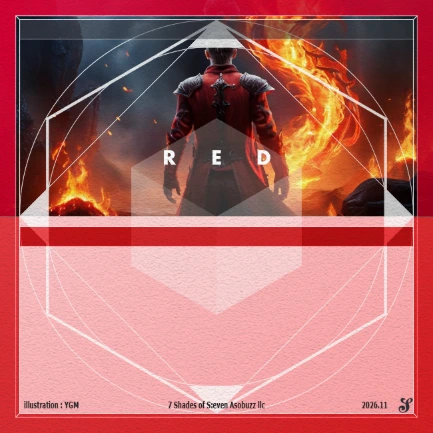
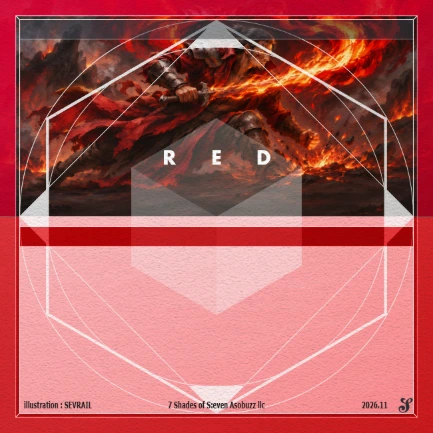
志炎者7枚をアプリに繋いだ：名義SEVRAIL・正方形イラスト・山札7枚（続き779）
ユーザー裁定4件への対応。

- 「この決まりはリメイクにも使ってた？」→ 使っていない。25字・行数の目安は
  CLAUDE.md の記録だけで、道具にも検査にも文のデータにも無い。リメイクの効果文には
  25字を超える行が48本ある（最長97字）。
- 名義を SEVRAIL にし、もらった正方形イラスト（1254x1254）で7枚を焼き直した。
  素材は _正方形版/<カードのid>.png（0th拡張と同じ仕掛け。元ファイル名が
  Shift_JIS 崩れなので id で当てる）。
- 山札に入れられるのは7枚（ONLYの1枚ではない）。
- 金色に光らせるのは貰うときだけ・ゲーム中は光らせない、をデータに記録。
  （報酬を渡す画面はまだ無い）

繋いだ所: card-text.js／cards-data.js の ALL_CARDS と MY_STACK_SETS／
card-pack-ui.js の getCollectionPool。
繋がなかった所: getPackPool（限定報酬なのでパックに入らない・サーバーの写し）と
my-page.js の称号の数え（分母だけ増えて到達不能になる）。

🔴 「パックに入るか」と「持ち物として数えるか」は別の問いだった。コレクションの枚数を
getPackPool で判定していたので、そのまま並べると持っていないのに 7/7 と出た。
判定を 持ち物として数える札か() に作り直した。

⚠ カードの下半分が平らな色に見えるのは絵がそう描かれているから（壊れていない）。
同じ赤枠に龍の絵を焼くと下85%まで絵が出ることを対照で確かめた。

check-cards.mjs に志炎者の節を足した（名義・山札の枚数・パックに混ざっていないか・
繋ぎ先が本当に使われているか）。わざと5通り崩して5通りとも名指しで落ちることを確認。

実測 scratchpad/_p779.mjs 28項目・NG 0・例外0・404 0。
npm run check 20本とも合格、npm test 216/216 PASS。
SQL・Edge Function の変更は無い＝再デプロイ不要。

diff --git a/src/cards-data-cf.js b/src/cards-data-cf.js
@@ -8,14 +8,27 @@
 // ⚠ 扱いは**拡張カード**（新しいエディションではない）。**パックではなく限定報酬**で配る。
 // 🔴 【志炎】は**まだ未実装**。「相手が、このカードと同色のカードの手札効果を使用した直後に限り、
 //    宣言できる」＝払うコストではなく**割り込みの窓**。アプリにその仕組みがまだ無い。
-// ⚠ `limited: true` は「限定報酬でしか手に入らない」の印。
+// ⚠ `limited: true` は「**手に入り方**が限定報酬だけ」の印。
 //    ONLY カードの `only` とは別物（あちらは印刷カードに ONLY と刷ってある札）。
-export const CF_CARDS = [
-  { id: "cf-yellow-scintilla", name: "黄を待つ志炎者　-スキンティラ-", color: "yellow", count: 1, limited: true, note: "🔴 2026-11-21: **0thリメイクの限定カード**。旧0thの「黄の志炎を待つ者」と**題名が同じで紛らわしい**ので、ユーザー判断で「黄を待つ志炎者　-スキンティラ-」に改名した。**旧0thの札とは別物。** 🔴 扱いは**拡張カード**（新しいエディションではない）。**パックではなく限定報酬**で配る（ユーザー判断）。 ⓘ 名前の由来: 火花（ラテン語）。7枚で「火の一生」を表す（① 生まれる）。 ⓘ 絵: 飛び跳ねる少年と黄金の炎の精霊（素材は J:/自作カードゲーム/7 seven/画像集/しえんしゃ　画像）。 🔴 【志炎】は**払うコストではなく割り込みの窓**。公式サイトの基本用語集:「相手が、このカードと同色のカードの手札効果を使用した直後に限り、宣言できる」。**まだ未実装。**" },
-  { id: "cf-pink-flamma", name: "桃を待つ志炎者　-フランマ-", color: "pink", count: 1, limited: true, note: "🔴 2026-11-21: **0thリメイクの限定カード**。旧0thの「桃の志炎を待つ者」と**題名が同じで紛らわしい**ので、ユーザー判断で「桃を待つ志炎者　-フランマ-」に改名した。**旧0thの札とは別物。** 🔴 扱いは**拡張カード**（新しいエディションではない）。**パックではなく限定報酬**で配る（ユーザー判断）。 ⓘ 名前の由来: 炎（ラテン語）。7枚で「火の一生」を表す（② 育つ）。 ⓘ 絵: ピンクの炎を編む少女（素材は J:/自作カードゲーム/7 seven/画像集/しえんしゃ　画像）。 🔴 【志炎】は**払うコストではなく割り込みの窓**。公式サイトの基本用語集:「相手が、このカードと同色のカードの手札効果を使用した直後に限り、宣言できる」。**まだ未実装。**" },
-  { id: "cf-red-ignis", name: "赤を待つ志炎者　-イグニス-", color: "red", count: 1, limited: true, note: "🔴 2026-11-21: **0thリメイクの限定カード**。旧0thの「赤の志炎を待つ者」と**題名が同じで紛らわしい**ので、ユーザー判断で「赤を待つ志炎者　-イグニス-」に改名した。**旧0thの札とは別物。** 🔴 扱いは**拡張カード**（新しいエディションではない）。**パックではなく限定報酬**で配る（ユーザー判断）。 ⓘ 名前の由来: 火（ラテン語）。7枚で「火の一生」を表す（③ 燃え盛る）。 ⓘ 絵: 炎剣を振るう赤い戦士（素材は J:/自作カードゲーム/7 seven/画像集/しえんしゃ　画像）。 🔴 【志炎】は**払うコストではなく割り込みの窓**。公式サイトの基本用語集:「相手が、このカードと同色のカードの手札効果を使用した直後に限り、宣言できる」。**まだ未実装。**" },
-  { id: "cf-orange-brand", name: "橙を待つ志炎者　-ブランド-", color: "orange", count: 1, limited: true, note: "🔴 2026-11-21: **0thリメイクの限定カード**。旧0thの「橙の志炎を待つ者」と**題名が同じで紛らわしい**ので、ユーザー判断で「橙を待つ志炎者　-ブランド-」に改名した。**旧0thの札とは別物。** 🔴 扱いは**拡張カード**（新しいエディションではない）。**パックではなく限定報酬**で配る（ユーザー判断）。 ⓘ 名前の由来: 燃え木・焼き印（ラテン語）。7枚で「火の一生」を表す（④ 運ばれる）。 ⓘ 絵: 橙の獣人と光る火の実（素材は J:/自作カードゲーム/7 seven/画像集/しえんしゃ　画像）。 🔴 【志炎】は**払うコストではなく割り込みの窓**。公式サイトの基本用語集:「相手が、このカードと同色のカードの手札効果を使用した直後に限り、宣言できる」。**まだ未実装。**" },
-  { id: "cf-blue-candela", name: "青を待つ志炎者　-カンデラ-", color: "blue", count: 1, limited: true, note: "🔴 2026-11-21: **0thリメイクの限定カード**。旧0thの「青の志炎を待つ者」と**題名が同じで紛らわしい**ので、ユーザー判断で「青を待つ志炎者　-カンデラ-」に改名した。**旧0thの札とは別物。** 🔴 扱いは**拡張カード**（新しいエディションではない）。**パックではなく限定報酬**で配る（ユーザー判断）。 ⓘ 名前の由来: 燭（ともしび）（ラテン語）。7枚で「火の一生」を表す（⑤ 灯される）。 ⓘ 絵: 青炎を掲げる老学者（素材は J:/自作カードゲーム/7 seven/画像集/しえんしゃ　画像）。 🔴 【志炎】は**払うコストではなく割り込みの窓**。公式サイトの基本用語集:「相手が、このカードと同色のカードの手札効果を使用した直後に限り、宣言できる」。**まだ未実装。**" },
-  { id: "cf-green-ember", name: "緑を待つ志炎者　-エンバー-", color: "green", count: 1, limited: true, note: "🔴 2026-11-21: **0thリメイクの限定カード**。旧0thの「緑の志炎を待つ者」と**題名が同じで紛らわしい**ので、ユーザー判断で「緑を待つ志炎者　-エンバー-」に改名した。**旧0thの札とは別物。** 🔴 扱いは**拡張カード**（新しいエディションではない）。**パックではなく限定報酬**で配る（ユーザー判断）。 ⓘ 名前の由来: 残り火（ラテン語）。7枚で「火の一生」を表す（⑥ 燻る）。 ⓘ 絵: 緑の蛮族、裂けた大地（素材は J:/自作カードゲーム/7 seven/画像集/しえんしゃ　画像）。 🔴 【志炎】は**払うコストではなく割り込みの窓**。公式サイトの基本用語集:「相手が、このカードと同色のカードの手札効果を使用した直後に限り、宣言できる」。**まだ未実装。**" },
-  { id: "cf-purple-favilla", name: "紫を待つ志炎者　-ファウィラ-", color: "purple", count: 1, limited: true, note: "🔴 2026-11-21: **0thリメイクの限定カード**。旧0thの「紫の志炎を待つ者」と**題名が同じで紛らわしい**ので、ユーザー判断で「紫を待つ志炎者　-ファウィラ-」に改名した。**旧0thの札とは別物。** 🔴 扱いは**拡張カード**（新しいエディションではない）。**パックではなく限定報酬**で配る（ユーザー判断）。 ⓘ 名前の由来: 燃えさし・灰（ラテン語）。7枚で「火の一生」を表す（⑦ 還る）。 ⓘ 絵: 紫の老女と燃える灯火（素材は J:/自作カードゲーム/7 seven/画像集/しえんしゃ　画像）。 🔴 【志炎】は**払うコストではなく割り込みの窓**。公式サイトの基本用語集:「相手が、このカードと同色のカードの手札効果を使用した直後に限り、宣言できる」。**まだ未実装。**" },
+// 🔴 山札に入れられるのは **7枚**＝ふつうの拡張カードと同じ
+//    （2026-11-21・ユーザー判断「これはONLYカードではないので通常通り７枚です」）。
+//    ⚠ ONLY カードの「1種類1枚まで」と**取り違えないこと**。
+// 🔴 金色に光らせるのは**貰うときだけ**。ゲーム中は光らせない（同日のユーザー判断）。
+//
+// 🔴 **繋ぐ所は「山札」だけではない**（続き758 の実害: 山札だけ繋いで `ALL_CARDS` に足し忘れ、
+//    名前が id のまま出た）。いま繋いである所:
+//      ・src/card-text.js        … 名前と効果文
+//      ・src/cards-data.js       … ALL_CARDS（id を引く表）と MY_STACK_SETS（マイ山札の候補）
+//      ・src/card-pack-ui.js     … コレクションに並べる顔ぶれ（getCollectionPool・持ち物として数える札）
+//    🔴 **足していない所と、その理由**:
+//      ・getPackPool()           … パックには入らない（限定報酬）。あれはサーバーの写しで検査が照合する
+//      ・my-page.js の称号の数え … 足すと「全部集めた」系の称号が**到達不能になる**（分母だけ増える）
+export const CF_NORMAL_CARDS = [
+  { id: "cf-yellow-scintilla", name: "黄を待つ志炎者　-スキンティラ-", color: "yellow", count: 7, limited: true, note: "🔴 2026-11-21: **0thリメイクの限定カード**。旧0thの「黄の志炎を待つ者」と**題名が同じで紛らわしい**ので、ユーザー判断で「黄を待つ志炎者　-スキンティラ-」に改名した。**旧0thの札とは別物。** 🔴 扱いは**拡張カード**（新しいエディションではない）。**パックではなく限定報酬**で配る（ユーザー判断）。 ⓘ 名前の由来: 火花（ラテン語）。7枚で「火の一生」を表す（① 生まれる）。 ⓘ 絵: 飛び跳ねる少年と黄金の炎の精霊（素材は J:/自作カードゲーム/7 seven/画像集/しえんしゃ　画像）。 🔴 【志炎】は**払うコストではなく割り込みの窓**。公式サイトの基本用語集:「相手が、このカードと同色のカードの手札効果を使用した直後に限り、宣言できる」。**まだ未実装。**" },
+  { id: "cf-pink-flamma", name: "桃を待つ志炎者　-フランマ-", color: "pink", count: 7, limited: true, note: "🔴 2026-11-21: **0thリメイクの限定カード**。旧0thの「桃の志炎を待つ者」と**題名が同じで紛らわしい**ので、ユーザー判断で「桃を待つ志炎者　-フランマ-」に改名した。**旧0thの札とは別物。** 🔴 扱いは**拡張カード**（新しいエディションではない）。**パックではなく限定報酬**で配る（ユーザー判断）。 ⓘ 名前の由来: 炎（ラテン語）。7枚で「火の一生」を表す（② 育つ）。 ⓘ 絵: ピンクの炎を編む少女（素材は J:/自作カードゲーム/7 seven/画像集/しえんしゃ　画像）。 🔴 【志炎】は**払うコストではなく割り込みの窓**。公式サイトの基本用語集:「相手が、このカードと同色のカードの手札効果を使用した直後に限り、宣言できる」。**まだ未実装。**" },
+  { id: "cf-red-ignis", name: "赤を待つ志炎者　-イグニス-", color: "red", count: 7, limited: true, note: "🔴 2026-11-21: **0thリメイクの限定カード**。旧0thの「赤の志炎を待つ者」と**題名が同じで紛らわしい**ので、ユーザー判断で「赤を待つ志炎者　-イグニス-」に改名した。**旧0thの札とは別物。** 🔴 扱いは**拡張カード**（新しいエディションではない）。**パックではなく限定報酬**で配る（ユーザー判断）。 ⓘ 名前の由来: 火（ラテン語）。7枚で「火の一生」を表す（③ 燃え盛る）。 ⓘ 絵: 炎剣を振るう赤い戦士（素材は J:/自作カードゲーム/7 seven/画像集/しえんしゃ　画像）。 🔴 【志炎】は**払うコストではなく割り込みの窓**。公式サイトの基本用語集:「相手が、このカードと同色のカードの手札効果を使用した直後に限り、宣言できる」。**まだ未実装。**" },
+  { id: "cf-orange-brand", name: "橙を待つ志炎者　-ブランド-", color: "orange", count: 7, limited: true, note: "🔴 2026-11-21: **0thリメイクの限定カード**。旧0thの「橙の志炎を待つ者」と**題名が同じで紛らわしい**ので、ユーザー判断で「橙を待つ志炎者　-ブランド-」に改名した。**旧0thの札とは別物。** 🔴 扱いは**拡張カード**（新しいエディションではない）。**パックではなく限定報酬**で配る（ユーザー判断）。 ⓘ 名前の由来: 燃え木・焼き印（ラテン語）。7枚で「火の一生」を表す（④ 運ばれる）。 ⓘ 絵: 橙の獣人と光る火の実（素材は J:/自作カードゲーム/7 seven/画像集/しえんしゃ　画像）。 🔴 【志炎】は**払うコストではなく割り込みの窓**。公式サイトの基本用語集:「相手が、このカードと同色のカードの手札効果を使用した直後に限り、宣言できる」。**まだ未実装。**" },
+  { id: "cf-blue-candela", name: "青を待つ志炎者　-カンデラ-", color: "blue", count: 7, limited: true, note: "🔴 2026-11-21: **0thリメイクの限定カード**。旧0thの「青の志炎を待つ者」と**題名が同じで紛らわしい**ので、ユーザー判断で「青を待つ志炎者　-カンデラ-」に改名した。**旧0thの札とは別物。** 🔴 扱いは**拡張カード**（新しいエディションではない）。**パックではなく限定報酬**で配る（ユーザー判断）。 ⓘ 名前の由来: 燭（ともしび）（ラテン語）。7枚で「火の一生」を表す（⑤ 灯される）。 ⓘ 絵: 青炎を掲げる老学者（素材は J:/自作カードゲーム/7 seven/画像集/しえんしゃ　画像）。 🔴 【志炎】は**払うコストではなく割り込みの窓**。公式サイトの基本用語集:「相手が、このカードと同色のカードの手札効果を使用した直後に限り、宣言できる」。**まだ未実装。**" },
+  { id: "cf-green-ember", name: "緑を待つ志炎者　-エンバー-", color: "green", count: 7, limited: true, note: "🔴 2026-11-21: **0thリメイクの限定カード**。旧0thの「緑の志炎を待つ者」と**題名が同じで紛らわしい**ので、ユーザー判断で「緑を待つ志炎者　-エンバー-」に改名した。**旧0thの札とは別物。** 🔴 扱いは**拡張カード**（新しいエディションではない）。**パックではなく限定報酬**で配る（ユーザー判断）。 ⓘ 名前の由来: 残り火（ラテン語）。7枚で「火の一生」を表す（⑥ 燻る）。 ⓘ 絵: 緑の蛮族、裂けた大地（素材は J:/自作カードゲーム/7 seven/画像集/しえんしゃ　画像）。 🔴 【志炎】は**払うコストではなく割り込みの窓**。公式サイトの基本用語集:「相手が、このカードと同色のカードの手札効果を使用した直後に限り、宣言できる」。**まだ未実装。**" },
+  { id: "cf-purple-favilla", name: "紫を待つ志炎者　-ファウィラ-", color: "purple", count: 7, limited: true, note: "🔴 2026-11-21: **0thリメイクの限定カード**。旧0thの「紫の志炎を待つ者」と**題名が同じで紛らわしい**ので、ユーザー判断で「紫を待つ志炎者　-ファウィラ-」に改名した。**旧0thの札とは別物。** 🔴 扱いは**拡張カード**（新しいエディションではない）。**パックではなく限定報酬**で配る（ユーザー判断）。 ⓘ 名前の由来: 燃えさし・灰（ラテン語）。7枚で「火の一生」を表す（⑦ 還る）。 ⓘ 絵: 紫の老女と燃える灯火（素材は J:/自作カードゲーム/7 seven/画像集/しえんしゃ　画像）。 🔴 【志炎】は**払うコストではなく割り込みの窓**。公式サイトの基本用語集:「相手が、このカードと同色のカードの手札効果を使用した直後に限り、宣言できる」。**まだ未実装。**" },
 ];

diff --git a/src/changelog.js b/src/changelog.js
@@ -153,6 +153,14 @@ export const CHANGELOG = [
       "🔴 **枠は「◯２」を使う**（追色の印が付かない方）。続き758 で焼き出しを1画素ずつ比べた結果「**◯１は右上に7角形の印（追色）が付く**」と分かっているため。志炎者に追色は無い。⚠ 赤・黄・緑・青・桃は１と２の差が 0〜4画素（実質同じ）だが、**そろえて２**にしてある。`cf-cards.mjs` の自己点検が「枠が２で終わるか」を毎回見る。",
       "⚠ **文とデータを書き出す道具を足した**（`tools/gen-cf-text.mjs` → `src/card-text-cf.ja.js` / `.en.js` / `src/cards-data-cf.js`）。🔴 **道具の表（cf-cards.mjs）と文の表（json）が食い違っていたら止まる**（名前・色・文の有無を突き合わせる）——片方だけ直して気づかないのがいちばん怖い。",
       "⚠ **まだアプリには出ない**（生成したファイルをどこからも import していないので、画面は1ミリも変わらない）。繋ぐ前に決めることが3つある: ①クレジットの名義（いま仮で YGM。リメイクの札は SEVRAIL 名義）②山札に入れられる枚数（ONLY と同じ1枚までか）③金の光を付けるか（ONLY は #596 で金色に光る）。",
+      "🔴 **志炎者7枚（0thリメイクの限定カード）をアプリに繋いだ。** ユーザー判断3件が決まったため: ①クレジットの名義は **SEVRAIL**（リメイクの札と同じ）②山札に入れられるのは **7枚**（ONLY の「1種類1枚まで」ではない）③金色に光らせるのは**貰うときだけ**でゲーム中は光らせない。",
+      "🔴 **イラストを、もらった正方形版（1254x1254）に差し替えて焼き直した。** 素材フォルダ直下の `_正方形版` に**カードの id**でファイルを置く仕掛け（0th拡張と同じ。あちらはフォルダ名だが、志炎者の元ファイル名は Shift_JIS が壊れていて当てにならないので id にした）。⚠ **リポジトリには入らない**ので、別の端末で `make-cf-art.mjs` を回すと横長の控えに戻る（その時は「横長の控えから焼きました」と出る）。",
+      "⚠ **繋いだ所**: `card-text.js`（名前と効果文）／`cards-data.js` の `ALL_CARDS`（id を引く表）と `MY_STACK_SETS`（マイ山札の候補）／`card-pack-ui.js` の `getCollectionPool`（コレクションに並べる）。🔴 **足していない所**: `getPackPool()`（パックには入らない＝限定報酬。あれはサーバーの写しで検査が照合する）と `my-page.js` の称号の数え（足すと分母だけ増えて「全部集めた」系の称号が**到達不能になる**）。",
+      "🔴 **「パックに入るか」と「持ち物として数えるか」は別の問いだった。** コレクションの枚数は `getPackPool()` に居るかで決めていたので、志炎者をそのまま並べると**持っていないのに 7/7 と出る**（リメイクの33種と同じ「最初から全員が持っている札」に落ちるため）。判定を `持ち物として数える札か()` に作り直した。",
+      "⚠ **カードの下半分が平らな色に見えるのは、絵がそう描かれているから**（壊れていない）。同じ赤枠に龍の絵を焼くと下85%まで絵が出ることを実測で確かめた。志炎者の元絵は「上に人物・下は平らな床」という構図で、**その床の上にアプリが名前と効果文を描く**。",
+      "⚠ **検査を1本ぶん厚くした**（`check-cards.mjs` に志炎者の節）。名義が SEVRAIL か・山札が7枚か・パックに混ざっていないか・繋ぎ先4か所が**本当に使われているか**を毎回見る。🔴 わざと5通り崩して5通りとも名指しで落ちることを確かめた——最初の書き方は**import 行に名前が残っているだけで合格**していて、A/B が3件とも素通りした（**名前が在るかではなく、使われているか**を見る形へ直した）。",
+      "⚠ **効果（【志炎】）はまだ未実装**。カードは出るが自動では処理されない（自己申告で遊べる）。「相手が同色の手札効果を使った直後に限り宣言できる」＝払うコストではなく**割り込みの窓**で、アプリにその仕組みがまだ無い。",
+      "⚠ **配る仕組み（限定報酬）もまだ無い**ので、いまは誰も持っていない。マイ山札には1枚も出ず、コレクションには **0/7** で並ぶ。",
     ],
   },
   {

diff --git a/src/card-pack-ui.js b/src/card-pack-ui.js
@@ -22,6 +22,7 @@ import { EX0_NORMAL_CARDS } from "./cards-data-ex0.js";
 import { NORMAL_CARDS } from "./cards-data.js";
 import { sortCardDefsByColor } from "./card-sort.js";
 import { FIRST_ED_NORMAL_CARDS } from "./cards-data-1st.js";
+import { CF_NORMAL_CARDS } from "./cards-data-cf.js"; // 志炎者7枚（限定報酬・パックには入らない）
 import { getCardImagePath, getCardBackImagePath, hasNoPrintedFace, getCardDefinition } from "./cards-data.js";
 import { showCardFace, paintCardFace } from "./card-face-display.js";
 // 【続き737】カードにホバー（スマホは長押し）で拡大（ユーザー要望・総点検）。
@@ -67,13 +68,18 @@ export function getPackPool() {
 //     ②**色の順に並べ直す**（赤→橙→黄→緑→青→桃→紫→なないろ→白→黒）。
 //   ⚠ パックの**中身**（getPackPool）は1枚も変えていない——あれはサーバーの写しなので、
 //     ここで顔ぶれを変えると検査が落ちる。**出す時だけ**別に組む。
+//   🔴【続き779】**志炎者7枚（限定報酬）も並べる。** パックからは出ないが、
+//     「持ち物として数える札」なので、コレクションには 0/7 で出るのが正しい。
 export function getCollectionPool() {
-  return sortCardDefsByColor([...NORMAL_CARDS, ...EX0_NORMAL_CARDS, ...FIRST_ED_NORMAL_CARDS]);
+  return sortCardDefsByColor([...NORMAL_CARDS, ...EX0_NORMAL_CARDS, ...FIRST_ED_NORMAL_CARDS, ...CF_NORMAL_CARDS]);
 }
 
-// その札が「パックで集める側」か（＝リメイクの33種ではないか）。
-function 拡張の札か(id) {
-  return getPackPool().some((d) => d.id === id);
+// その札の所持枚数を**数える側**か（＝リメイクの33種のように最初から全員が持っている札ではないか）。
+// 🔴【続き779】ここは `getPackPool()` では**ない**。志炎者7枚はパックから出ないが、
+//   持ち物として数える札なので、パックの顔ぶれだけで判ると**持っていないのに 7/7 と出る**
+//   （下の 377 行目で `COPY_MAX` に落ちるため）。**パックに入るか**と**持ち物か**は別の問い。
+function 持ち物として数える札か(id) {
+  return getPackPool().some((d) => d.id === id) || CF_NORMAL_CARDS.some((d) => d.id === id);
 }
 function capOf(def) {
   return def?.only ? 1 : COPY_MAX;
@@ -374,7 +380,7 @@ function ウィークリーの区画() {
 // その札を何枚持っているか。**リメイクの33種は最初から全員が上限まで持っている**
 // （card-packs.js の copiesOf と同じ決まり。ここで別の数え方をするとズレる）。
 function 枚数(c, def) {
-  if (!拡張の札か(def.id)) return COPY_MAX;
+  if (!持ち物として数える札か(def.id)) return COPY_MAX;
   return Math.max(0, Math.floor(Number(c.cards[def.id]) || 0));
 }
 

diff --git a/src/card-text.js b/src/card-text.js
@@ -17,12 +17,14 @@ import { CARD_TEXT_1ST_JA } from "./card-text-1st.ja.js";
 import { CARD_TEXT_1ST_EN } from "./card-text-1st.en.js";
 import { CARD_TEXT_OLD0TH_JA } from "./card-text-0th.ja.js";
 import { CARD_TEXT_OLD0TH_EN } from "./card-text-0th.en.js";
+import { CARD_TEXT_CF_JA } from "./card-text-cf.ja.js"; // 0thリメイクの限定カード（志炎者7枚・続き779）
+import { CARD_TEXT_CF_EN } from "./card-text-cf.en.js";
 
 // 🔴 0th拡張・1st EDITION・旧0th の文は**別ファイル**で持ち、ここで混ぜる。
 //   card-text.ja.js は tools/gen-card-text.mjs が「カード効果　テキスト.txt」から
 //   **丸ごと上書きして作る**ので、あちらに書き足すと次の生成で黙って消えるため。
-const JA = { ...CARD_TEXT_JA, ...CARD_TEXT_EX0_JA, ...CARD_TEXT_1ST_JA, ...CARD_TEXT_OLD0TH_JA };
-const EN = { ...CARD_TEXT_EN, ...CARD_TEXT_EX0_EN, ...CARD_TEXT_1ST_EN, ...CARD_TEXT_OLD0TH_EN };
+const JA = { ...CARD_TEXT_JA, ...CARD_TEXT_EX0_JA, ...CARD_TEXT_1ST_JA, ...CARD_TEXT_OLD0TH_JA, ...CARD_TEXT_CF_JA };
+const EN = { ...CARD_TEXT_EN, ...CARD_TEXT_EX0_EN, ...CARD_TEXT_1ST_EN, ...CARD_TEXT_OLD0TH_EN, ...CARD_TEXT_CF_EN };
 const LANGS = {
   ja: JA,
   en: EN,

diff --git a/src/app-version.js b/src/app-version.js
@@ -1,3 +1,3 @@
 // 自動生成（.git/hooks/pre-commit）。デプロイのたびに更新される「今実行しているコード」の
 // バージョン。version.json と必ず同じ値になる。update-checker.js が使う基準値。
-export const APP_VERSION = "20261121-063841";
+export const APP_VERSION = "20261121-075014";

diff --git a/CLAUDE.md b/CLAUDE.md
@@ -2206,3 +2206,108 @@ style.css は**1バイトも違わず**元に戻った。
 - 🔴 **入力欄の実際の制限が別に在るなら教えてほしい**とコメントで聞いてある
   （それならその値で組み直す）。
 - 🔴 **【志炎】の仕組み**（割り込みの窓）はいちばん重いので最後。
+
+### 2026-11-21（続き779）：志炎者7枚をアプリに繋いだ／🔴 「パックに入るか」と「持ち物か」は**別の問い**だった
+
+ユーザー裁定4件。「この決まりはリメイクにも使ってた？？」「SEVRAILでいいよ！ただイラストはこっちを使って！！」
+「これはONLYカードではないので通常通り７枚です」「貰うときは光らせよう！ゲーム中は不要です」。
+
+#### ① 「リメイクにも使ってた？」の答え：**使っていない**（数えて確かめた）
+
+| 調べたこと | 結果 |
+|---|---|
+| 25字・行数の決まりが repo のどこに在るか | **CLAUDE.md の記録だけ**。道具にも検査にも文のデータにも1か所も無い |
+| リメイクの効果文で25字を超える行 | **48本**（最長 97字＝エターナル橙の手札） |
+
+⇒ あの目安は**続き766 でクラファン7枚のためにこちらが逆算したもの**で、リメイク・0th拡張・
+旧0th には**一度も当てていない**。それらの文は「カード効果　テキスト.txt」から丸ごと生成しており、
+文字数の縛りは入っていない。
+ⓘ アプリ側に在る長さの制約は**別物**で、「**効果文が下のクレジットに被らないこと**」
+（実測で見る＝続き774・775）。文字数ではなく**焼いた絵の上での位置**で決まる。
+
+#### 🔴 ② イラストを正方形版に差し替えた
+
+もらった7枚は **1254x1254 の正方形**で、人物が上・下半分が床という**カードの文が乗る前提の構図**。
+⇒ 素材フォルダ直下の **`_正方形版`** に置く（0th拡張と同じ仕掛け・続き773）。
+🔴 **ファイル名はカードの id**（`cf-red-ignis.png`）。0th拡張はフォルダ名で当てているが、
+志炎者の元ファイル名は **Shift_JIS が壊れている**ので、取り違えようのない id にした。
+⚠ 7枚とも元のファイル名の「絵の説明」が `art:` とそのまま一致したので、1対1で当たることを
+機械で確かめてから置いた（当て間違いは**色の取り違えに直結する**）。
+⚠ **リポジトリには入らない**（実物の絵は git 管理外）。別の端末で焼くと横長の控えに戻るので、
+`make-cf-art.mjs` が「**横長の控えから焼きました**」と言うようにした。
+
+#### 🔴 ③ 「下半分が平らな色」は壊れていない（**対照を焼いて**決着させた）
+
+焼き上がりを見ると絵が上45%にしか無いように見え、ノクスアエル・リメイクの札は全面に絵がある。
+**推測で直さず**、原因を順に潰した:
+
+| 調べた | 結果 |
+|---|---|
+| squarify が切っているか | **素通し**（1254x1254 → 1254x1254・「ほとんど埋めていません」） |
+| make-card が帯に置いているか | **置いていない**。`drawCover` で**カード全面に2回**敷く作り |
+| 🔴 **同じ赤枠に龍の絵を焼く**（対照） | **下85%まで絵が出た** ⇒ 枠は切っていない |
+
+⇒ **元絵そのもの**が「上に人物・下は平らな床」。その床の上に**アプリが名前と効果文を描く**ので、
+絵描きさんが意図したとおりの構図。**直すところは無い。**
+**教訓: 「絵が出ていない」と見えたら、同じ枠に別の絵を焼いて対照を取る。** 1回焼けば決着する。
+
+#### 🔴🔴 ④ 「パックに入るか」と「持ち物として数えるか」は別の問いだった
+
+コレクションの枚数は `拡張の札か(id)`（＝`getPackPool()` に居るか）で決めていた。
+志炎者は**パックから出ない**ので、そのまま並べると「リメイクの33種と同じ＝最初から全員が持っている札」
+に落ちて、**持っていないのに 7/7 と出る**。
+⇒ `持ち物として数える札か(id)` に作り直した（パックの顔ぶれ **＋** 志炎者）。
+⚠ `getPackPool()` は**サーバーの写し**なので1枚も触っていない（触ると `check-card-packs` が落ちる）。
+
+#### ⑤ 繋いだ所と、**わざと繋がなかった所**
+
+| 繋いだ | 何のため |
+|---|---|
+| `card-text.js` | 名前と効果文（ふりがなも） |
+| `cards-data.js` の `ALL_CARDS` | **id を引く表**（続き758 の実害: 山札だけ繋いで名前が id のまま出た） |
+| `cards-data.js` の `MY_STACK_SETS` | マイ山札の候補。**2つ目以降は持っている札だけに絞られる**ので、配られるまで誰の画面にも出ない |
+| `card-pack-ui.js` の `getCollectionPool` | コレクションに **0/7** で並ぶ |
+
+| 🔴 繋がなかった | なぜ |
+|---|---|
+| `getPackPool()` | パックには入らない（限定報酬）。**サーバーの写し**で検査が照合する |
+| `my-page.js` の称号の数え | 足すと**分母だけ増えて**「全部集めた」系の称号が**到達不能になる**（配る仕組みがまだ無いため） |
+
+#### ⑥ 決まりごとを**データに書いた**（黙って戻らないように）
+
+`tools/cf-cards.mjs` に `CF_DECK_COUNT = 7` と `CF_GLOW = { 貰うとき: true, ゲーム中: false }` を置き、
+自己点検が毎回見る。生成されるデータのコメントにも理由ごと書いた。
+⚠ **報酬を渡す画面はまだ無い**ので、金色に光らせるのは**作る時にここを読む**という形。
+
+#### 実測（`scratchpad/_p779.mjs` **28項目**・NG 0・例外0・404 0）
+
+7種とも id を引けて名前が id のまま落ちない／名前・効果文・ふりがなが出る／絵21枚が読めて正方形／
+**イラストの下1/4が絵で埋まっている**（正方形版が効いている・7枚とも 1.000）／カード面に
+「◯を待つ志炎者　-△△-」が出る／**標準の山札には混ざらない**／コレクションが 71→78／
+**パックには0枚**／**持っていないので 0 枚**（7/7 になっていない）／**マイ山札に1枚も出ない**。
+🔴 **撮って確かめた**: `scratchpad/_cf/焼いた札.png`・`クレジット.png`（7枚とも
+`illustration : SEVRAIL` / `2026.11`）・`対照.png`（上の③）。
+
+#### ⚠ 実測の作り直しで6回つまずいた（全部**私の数え方**）
+
+| | 正体 |
+|---|---|
+| 名前が取れない | 🔴 **`getCardName` は ja では null を返す作り**（日本語の名前は `cards-data.js` の `def.name` が正） |
+| カード面に名前が無いと出る | 🔴 **textContent にふりがなが混ざる**（赤あかを待まつ…）。`rt` を外してから読む |
+| クレジットが DOM に無い | 🔴 **絵に焼き込み**。DOM を見ても永久に見つからない ⇒ 焼いた絵を撮って読む |
+| コレクション73のはず→78 | リメイクの通常は**19種**（33種はE7・F7を含む数） |
+| パック33のはず→52 | 0th拡張33＋1st 19。**決め打ちをやめ、セットの大きさから出す**形に直した |
+| A/B が3件素通り | 🔴 **import 行に名前が残っているだけで合格**していた。**名前が在るかではなく、使われているか**を見る形へ |
+
+**検査**: `npm run check` 20本とも合格（志炎者の節つき）、`npm test` **216/216 PASS**。
+**SQL・Edge Function の変更は無い＝再デプロイ不要。**
+
+#### 🔴 申し送り
+
+- 🔴 **コレクションに 0/7 で出る＝プレイヤーから見える。** お知らせ（items）には**書いていない**
+  ——限定報酬をいつ知らせるかは売り方の判断なので。**知らせるか、配るまで隠すか**を聞くこと。
+- 🔴 **配る仕組み（限定報酬）が未実装。** 持ち物はサーバー（`so7_` の持ち物）なので、**配るには
+  サーバー側の口が要る**（パックとは別の配り方）。
+- 🔴 **【志炎】＝割り込みの窓が未実装**（いちばん重い）。近い親戚は**反撃＝カウンターロック**。
+- ⚠ **実機では見ていない**（ヘッドレスの実測と撮った絵まで）。
+- ⓘ 旧0thのクラファン限定10種は**別の話として未実装のまま**。
